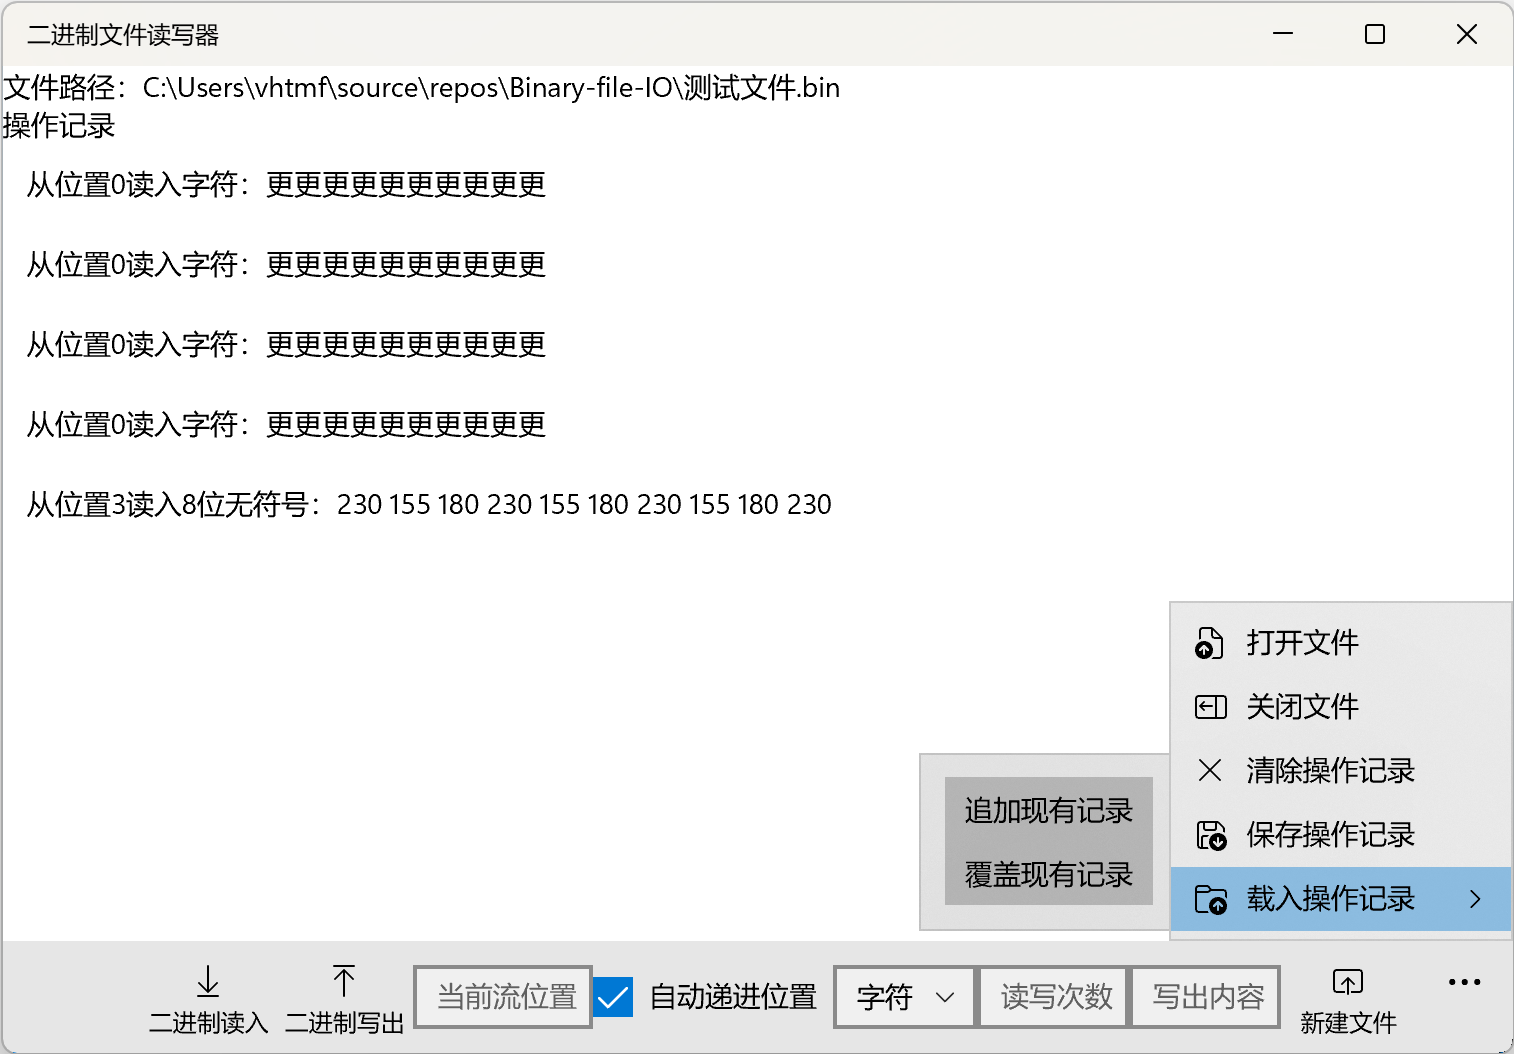
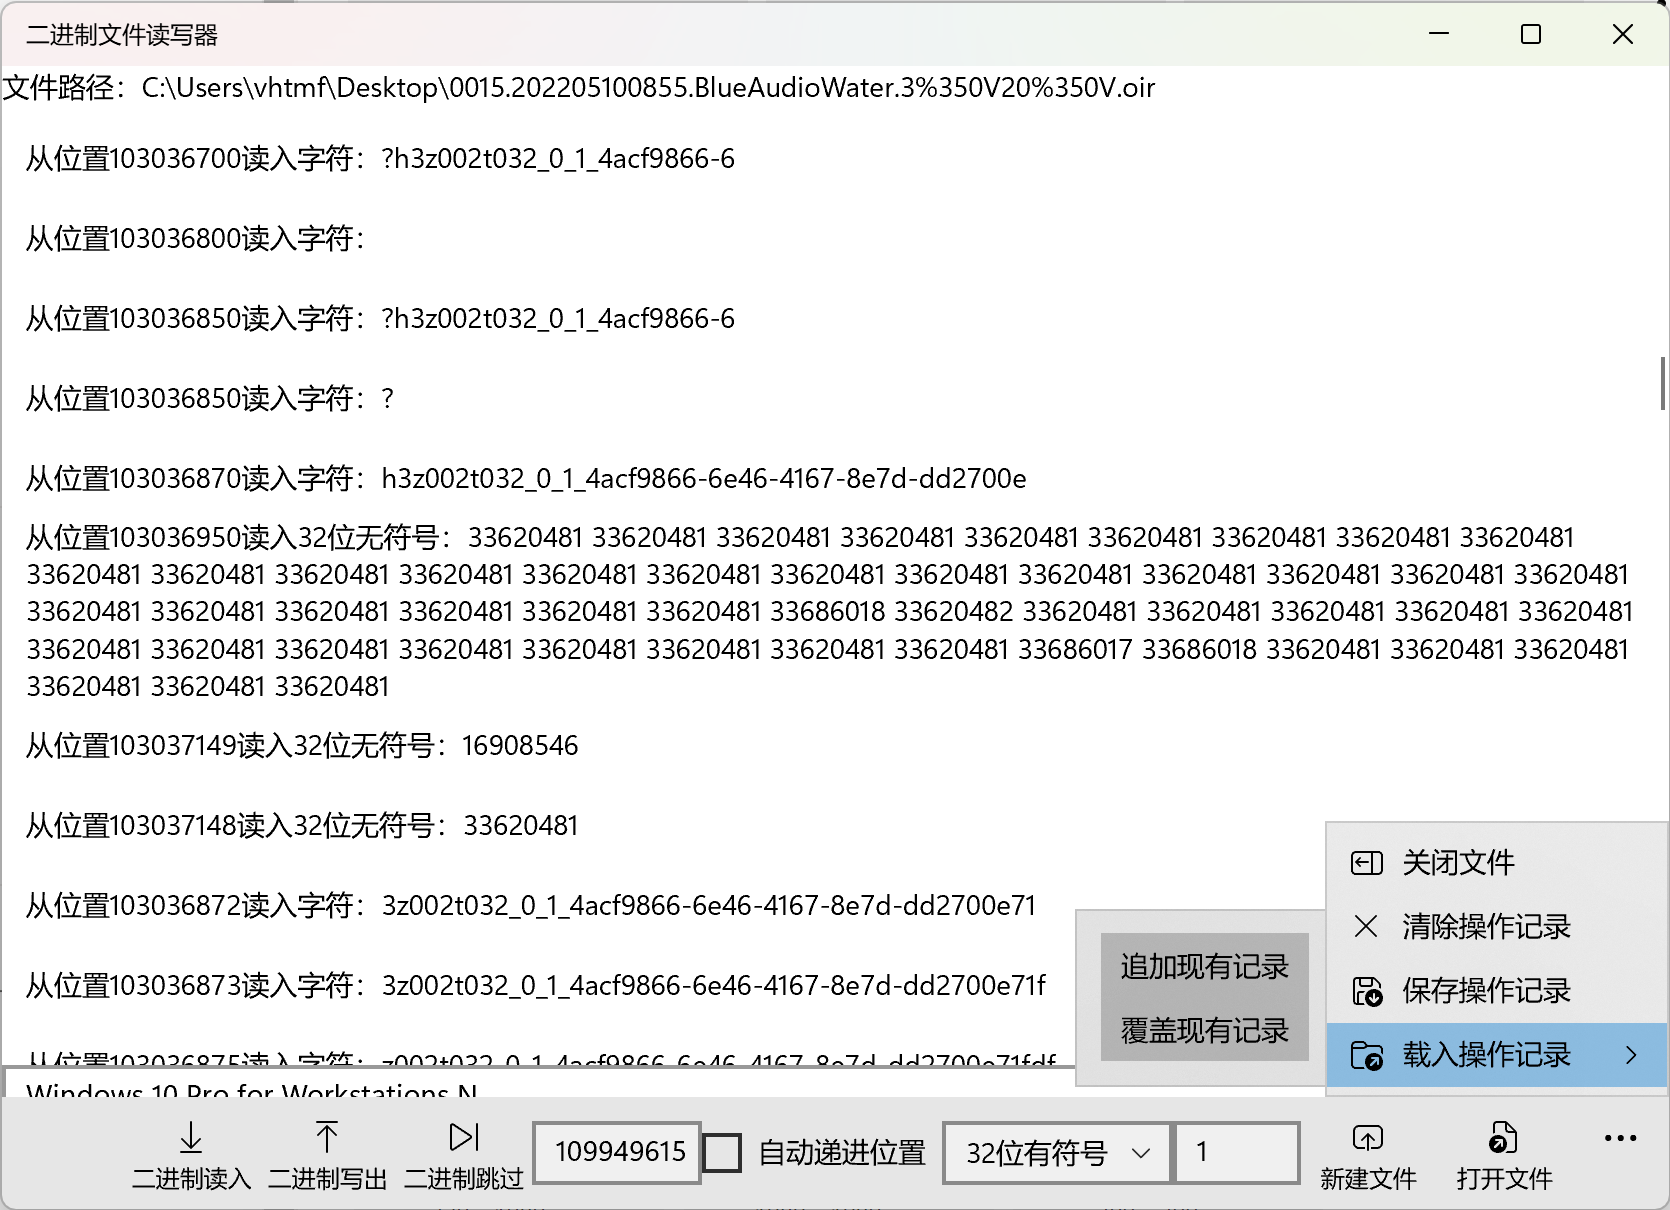
函数空行

diff --git a/二进制文件读写器/MainPage.xaml b/二进制文件读写器/MainPage.xaml
@@ -15,6 +15,7 @@
 		<CommandBar>
 			<AppBarButton x:Name="二进制读入" Icon="Download" Label="二进制读入" ToolTipService.ToolTip="二进制读入"/>
 			<AppBarButton x:Name="二进制写出" Icon="Upload" Label="二进制写出" ToolTipService.ToolTip="二进制写出"/>
+			<AppBarButton x:Name="二进制跳过" Icon="Next" Label="二进制跳过" ToolTipService.ToolTip="二进制跳过"/>
 			<AppBarElementContainer VerticalAlignment="Center">
 				<StackPanel Orientation="Horizontal">
 					<TextBox x:Name="当前位置" PlaceholderText="当前流位置" ToolTipService.ToolTip="当前流位置"/>
@@ -38,7 +39,6 @@
 						</ComboBox.Items>
 					</ComboBox>
 					<TextBox x:Name="读写次数" PlaceholderText="读写次数" InputScope="Number" ToolTipService.ToolTip="读写次数"/>
-					<TextBox x:Name="写出内容" PlaceholderText="写出内容" ToolTipService.ToolTip="写出内容"/>
 				</StackPanel>
 			</AppBarElementContainer>
 			<AppBarButton Icon="NewWindow" Label="新建文件" AllowFocusOnInteraction="true" ToolTipService.ToolTip="新建文件">
@@ -71,6 +71,7 @@
 		<Grid.RowDefinitions>
 			<RowDefinition Height="Auto"/>
 			<RowDefinition/>
+			<RowDefinition Height="Auto"/>
 		</Grid.RowDefinitions>
 		<StackPanel Orientation="Horizontal" Grid.Row="0">
 			<TextBlock Text="文件路径："/>
@@ -83,5 +84,6 @@
 				</DataTemplate>
 			</ListView.ItemTemplate>
 		</ListView>
+		<TextBox x:Name="写出内容" PlaceholderText="写出内容" ToolTipService.ToolTip="写出内容" Grid.Row="2" Grid.Column="0" TextWrapping="Wrap" AcceptsReturn="True"/>
 	</Grid>
 </Page>
